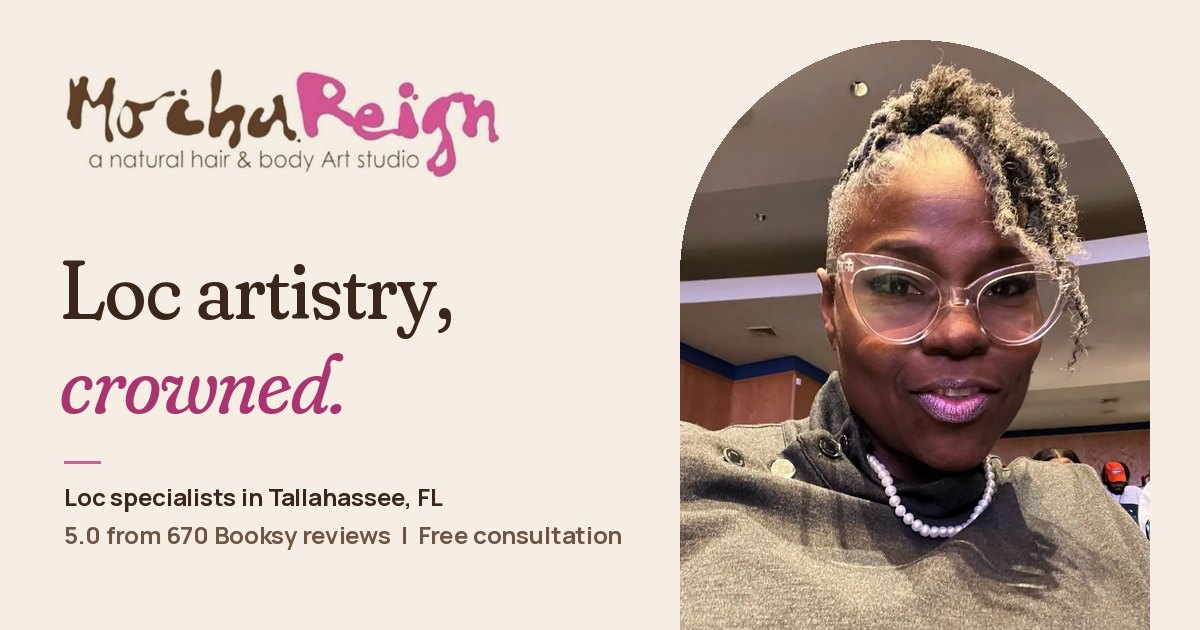
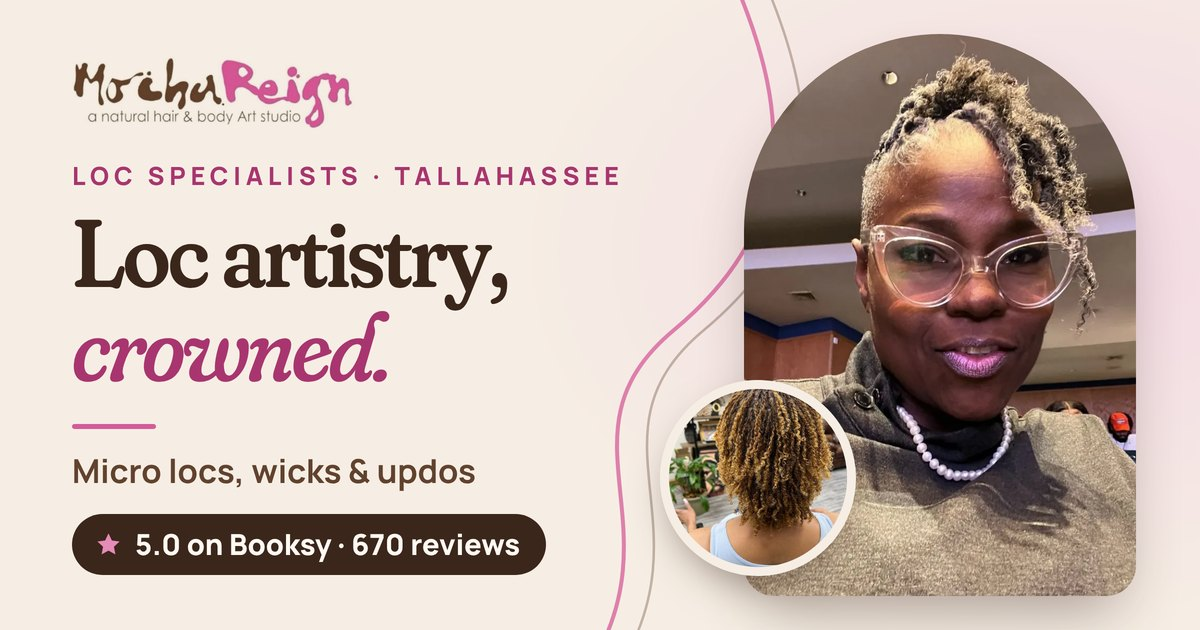
Add per-page Open Graph images and update social meta tags.
Includes dedicated og/ assets and refreshed share image across HTML pages.

diff --git a/index.html b/index.html
@@ -11,18 +11,21 @@
 <meta name="robots" content="index, follow, max-image-preview:large">
 <meta property="og:type" content="website">
 <meta property="og:site_name" content="Mocha Reign Natural Hair Studio &amp; Boutique">
-<meta property="og:title" content="Loc Specialists in Tallahassee, FL | Mocha Reign Studio">
+<meta property="og:title" content="Mocha Reign Natural Hair Studio | Tallahassee Locs">
 <meta property="og:description" content="Micro locs, traditional locs, wicks, loc updos and repair by Tia MochaReign Simmons in Tallahassee. 5.0 from 670 Booksy reviews. Free consultation.">
 <meta property="og:url" content="https://mocha-reign-natural-hair-studio.netlify.app/">
-<meta property="og:image" content="https://mocha-reign-natural-hair-studio.netlify.app/assets/img/share.jpg">
+<meta property="og:image" content="https://mocha-reign-natural-hair-studio.netlify.app/assets/img/og/home.jpg">
+<meta property="og:image:secure_url" content="https://mocha-reign-natural-hair-studio.netlify.app/assets/img/og/home.jpg">
 <meta property="og:image:width" content="1200">
 <meta property="og:image:height" content="630">
-<meta property="og:image:alt" content="Mocha Reign logo and the words Loc artistry, crowned, beside a smiling client with a gray loc updo">
+<meta property="og:image:type" content="image/jpeg">
+<meta property="og:image:alt" content="Mocha Reign link preview: Loc artistry, crowned. Micro locs, wicks &amp; updos. 5.0 on Booksy · 670 reviews. Shown with client photos.">
 <meta property="og:locale" content="en_US">
 <meta name="twitter:card" content="summary_large_image">
-<meta name="twitter:title" content="Loc Specialists in Tallahassee, FL | Mocha Reign Studio">
+<meta name="twitter:title" content="Mocha Reign Natural Hair Studio | Tallahassee Locs">
 <meta name="twitter:description" content="Micro locs, traditional locs, wicks, loc updos and repair by Tia MochaReign Simmons in Tallahassee. 5.0 from 670 Booksy reviews. Free consultation.">
-<meta name="twitter:image" content="https://mocha-reign-natural-hair-studio.netlify.app/assets/img/share.jpg">
+<meta name="twitter:image" content="https://mocha-reign-natural-hair-studio.netlify.app/assets/img/og/home.jpg">
+<meta name="twitter:image:alt" content="Mocha Reign link preview: Loc artistry, crowned. Micro locs, wicks &amp; updos. 5.0 on Booksy · 670 reviews. Shown with client photos.">
 <link rel="icon" href="assets/img/favicon.svg" type="image/svg+xml">
 <link rel="icon" href="assets/img/favicon-32.png" sizes="32x32" type="image/png">
 <link rel="apple-touch-icon" href="assets/img/apple-touch-icon.png">

diff --git a/events.html b/events.html
@@ -14,15 +14,18 @@
 <meta property="og:title" content="Wedding & Event Loc Updos, Tallahassee | Mocha Reign">
 <meta property="og:description" content="Loc updos and occasion styling for weddings, bridal showers and homecoming in Tallahassee. Free consultation first. Send an event inquiry.">
 <meta property="og:url" content="https://mocha-reign-natural-hair-studio.netlify.app/events.html">
-<meta property="og:image" content="https://mocha-reign-natural-hair-studio.netlify.app/assets/img/share.jpg">
+<meta property="og:image" content="https://mocha-reign-natural-hair-studio.netlify.app/assets/img/og/events.jpg">
+<meta property="og:image:secure_url" content="https://mocha-reign-natural-hair-studio.netlify.app/assets/img/og/events.jpg">
 <meta property="og:image:width" content="1200">
 <meta property="og:image:height" content="630">
-<meta property="og:image:alt" content="Mocha Reign logo and the words Loc artistry, crowned, beside a smiling client with a gray loc updo">
+<meta property="og:image:type" content="image/jpeg">
+<meta property="og:image:alt" content="Mocha Reign link preview: Locs for the big day. Weddings, showers &amp; homecoming. Start with a free consultation. Shown with client photos.">
 <meta property="og:locale" content="en_US">
 <meta name="twitter:card" content="summary_large_image">
 <meta name="twitter:title" content="Wedding & Event Loc Updos, Tallahassee | Mocha Reign">
 <meta name="twitter:description" content="Loc updos and occasion styling for weddings, bridal showers and homecoming in Tallahassee. Free consultation first. Send an event inquiry.">
-<meta name="twitter:image" content="https://mocha-reign-natural-hair-studio.netlify.app/assets/img/share.jpg">
+<meta name="twitter:image" content="https://mocha-reign-natural-hair-studio.netlify.app/assets/img/og/events.jpg">
+<meta name="twitter:image:alt" content="Mocha Reign link preview: Locs for the big day. Weddings, showers &amp; homecoming. Start with a free consultation. Shown with client photos.">
 <link rel="icon" href="assets/img/favicon.svg" type="image/svg+xml">
 <link rel="icon" href="assets/img/favicon-32.png" sizes="32x32" type="image/png">
 <link rel="apple-touch-icon" href="assets/img/apple-touch-icon.png">

diff --git a/services.html b/services.html
@@ -14,15 +14,18 @@
 <meta property="og:title" content="Loc Services & Prices in Tallahassee | Mocha Reign">
 <meta property="og:description" content="Full menu and starting prices: micro locs, retwists, wicks, starter locs, loc styles, kids locs and hair paint at Mocha Reign, Tallahassee. Free consult.">
 <meta property="og:url" content="https://mocha-reign-natural-hair-studio.netlify.app/services.html">
-<meta property="og:image" content="https://mocha-reign-natural-hair-studio.netlify.app/assets/img/share.jpg">
+<meta property="og:image" content="https://mocha-reign-natural-hair-studio.netlify.app/assets/img/og/services.jpg">
+<meta property="og:image:secure_url" content="https://mocha-reign-natural-hair-studio.netlify.app/assets/img/og/services.jpg">
 <meta property="og:image:width" content="1200">
 <meta property="og:image:height" content="630">
-<meta property="og:image:alt" content="Mocha Reign logo and the words Loc artistry, crowned, beside a smiling client with a gray loc updo">
+<meta property="og:image:type" content="image/jpeg">
+<meta property="og:image:alt" content="Mocha Reign link preview: The menu. Loc maintenance from $95+. Free 15-minute consultation. Shown with client photos.">
 <meta property="og:locale" content="en_US">
 <meta name="twitter:card" content="summary_large_image">
 <meta name="twitter:title" content="Loc Services & Prices in Tallahassee | Mocha Reign">
 <meta name="twitter:description" content="Full menu and starting prices: micro locs, retwists, wicks, starter locs, loc styles, kids locs and hair paint at Mocha Reign, Tallahassee. Free consult.">
-<meta name="twitter:image" content="https://mocha-reign-natural-hair-studio.netlify.app/assets/img/share.jpg">
+<meta name="twitter:image" content="https://mocha-reign-natural-hair-studio.netlify.app/assets/img/og/services.jpg">
+<meta name="twitter:image:alt" content="Mocha Reign link preview: The menu. Loc maintenance from $95+. Free 15-minute consultation. Shown with client photos.">
 <link rel="icon" href="assets/img/favicon.svg" type="image/svg+xml">
 <link rel="icon" href="assets/img/favicon-32.png" sizes="32x32" type="image/png">
 <link rel="apple-touch-icon" href="assets/img/apple-touch-icon.png">

diff --git a/about.html b/about.html
@@ -14,15 +14,18 @@
 <meta property="og:title" content="About Mocha Reign | Loc Artist Tia Simmons, Tallahassee">
 <meta property="og:description" content="Meet Tia MochaReign Simmons and the Mocha Reign team: a natural hair and body art studio serving Tallahassee since 2010. Loc specialists.">
 <meta property="og:url" content="https://mocha-reign-natural-hair-studio.netlify.app/about.html">
-<meta property="og:image" content="https://mocha-reign-natural-hair-studio.netlify.app/assets/img/share.jpg">
+<meta property="og:image" content="https://mocha-reign-natural-hair-studio.netlify.app/assets/img/og/about.jpg">
+<meta property="og:image:secure_url" content="https://mocha-reign-natural-hair-studio.netlify.app/assets/img/og/about.jpg">
 <meta property="og:image:width" content="1200">
 <meta property="og:image:height" content="630">
-<meta property="og:image:alt" content="Mocha Reign logo and the words Loc artistry, crowned, beside a smiling client with a gray loc updo">
+<meta property="og:image:type" content="image/jpeg">
+<meta property="og:image:alt" content="Mocha Reign link preview: Meet Tia. Tia “MochaReign” Simmons. Natural hair &amp; body Art studio. Shown with a portrait photo.">
 <meta property="og:locale" content="en_US">
 <meta name="twitter:card" content="summary_large_image">
 <meta name="twitter:title" content="About Mocha Reign | Loc Artist Tia Simmons, Tallahassee">
 <meta name="twitter:description" content="Meet Tia MochaReign Simmons and the Mocha Reign team: a natural hair and body art studio serving Tallahassee since 2010. Loc specialists.">
-<meta name="twitter:image" content="https://mocha-reign-natural-hair-studio.netlify.app/assets/img/share.jpg">
+<meta name="twitter:image" content="https://mocha-reign-natural-hair-studio.netlify.app/assets/img/og/about.jpg">
+<meta name="twitter:image:alt" content="Mocha Reign link preview: Meet Tia. Tia “MochaReign” Simmons. Natural hair &amp; body Art studio. Shown with a portrait photo.">
 <link rel="icon" href="assets/img/favicon.svg" type="image/svg+xml">
 <link rel="icon" href="assets/img/favicon-32.png" sizes="32x32" type="image/png">
 <link rel="apple-touch-icon" href="assets/img/apple-touch-icon.png">

diff --git a/book.html b/book.html
@@ -14,15 +14,18 @@
 <meta property="og:title" content="Book a Loc Consultation in Tallahassee | Mocha Reign">
 <meta property="og:description" content="Book a free 15-minute consultation on Booksy. Hours, directions, parking and policies for Mocha Reign, 1533-4 South Monroe St, Tallahassee.">
 <meta property="og:url" content="https://mocha-reign-natural-hair-studio.netlify.app/book.html">
-<meta property="og:image" content="https://mocha-reign-natural-hair-studio.netlify.app/assets/img/share.jpg">
+<meta property="og:image" content="https://mocha-reign-natural-hair-studio.netlify.app/assets/img/og/book.jpg">
+<meta property="og:image:secure_url" content="https://mocha-reign-natural-hair-studio.netlify.app/assets/img/og/book.jpg">
 <meta property="og:image:width" content="1200">
 <meta property="og:image:height" content="630">
-<meta property="og:image:alt" content="Mocha Reign logo and the words Loc artistry, crowned, beside a smiling client with a gray loc updo">
+<meta property="og:image:type" content="image/jpeg">
+<meta property="og:image:alt" content="Mocha Reign link preview: Your chair is waiting. 1533-4 South Monroe St. Free consult · Tue &amp; Wed. Shown with client photos.">
 <meta property="og:locale" content="en_US">
 <meta name="twitter:card" content="summary_large_image">
 <meta name="twitter:title" content="Book a Loc Consultation in Tallahassee | Mocha Reign">
 <meta name="twitter:description" content="Book a free 15-minute consultation on Booksy. Hours, directions, parking and policies for Mocha Reign, 1533-4 South Monroe St, Tallahassee.">
-<meta name="twitter:image" content="https://mocha-reign-natural-hair-studio.netlify.app/assets/img/share.jpg">
+<meta name="twitter:image" content="https://mocha-reign-natural-hair-studio.netlify.app/assets/img/og/book.jpg">
+<meta name="twitter:image:alt" content="Mocha Reign link preview: Your chair is waiting. 1533-4 South Monroe St. Free consult · Tue &amp; Wed. Shown with client photos.">
 <link rel="icon" href="assets/img/favicon.svg" type="image/svg+xml">
 <link rel="icon" href="assets/img/favicon-32.png" sizes="32x32" type="image/png">
 <link rel="apple-touch-icon" href="assets/img/apple-touch-icon.png">

diff --git a/gallery.html b/gallery.html
@@ -14,15 +14,18 @@
 <meta property="og:title" content="Loc Styles Gallery, Tallahassee | Mocha Reign Studio">
 <meta property="og:description" content="Photos of loc updos, micro locs, retwists, loc hawks and color from Mocha Reign Natural Hair Studio in Tallahassee, FL. Filter by style.">
 <meta property="og:url" content="https://mocha-reign-natural-hair-studio.netlify.app/gallery.html">
-<meta property="og:image" content="https://mocha-reign-natural-hair-studio.netlify.app/assets/img/share.jpg">
+<meta property="og:image" content="https://mocha-reign-natural-hair-studio.netlify.app/assets/img/og/gallery.jpg">
+<meta property="og:image:secure_url" content="https://mocha-reign-natural-hair-studio.netlify.app/assets/img/og/gallery.jpg">
 <meta property="og:image:width" content="1200">
 <meta property="og:image:height" content="630">
-<meta property="og:image:alt" content="Mocha Reign logo and the words Loc artistry, crowned, beside a smiling client with a gray loc updo">
+<meta property="og:image:type" content="image/jpeg">
+<meta property="og:image:alt" content="Mocha Reign link preview: The portfolio. Updos, micro locs &amp; more. Tallahassee, FL. Shown with four client photos.">
 <meta property="og:locale" content="en_US">
 <meta name="twitter:card" content="summary_large_image">
 <meta name="twitter:title" content="Loc Styles Gallery, Tallahassee | Mocha Reign Studio">
 <meta name="twitter:description" content="Photos of loc updos, micro locs, retwists, loc hawks and color from Mocha Reign Natural Hair Studio in Tallahassee, FL. Filter by style.">
-<meta name="twitter:image" content="https://mocha-reign-natural-hair-studio.netlify.app/assets/img/share.jpg">
+<meta name="twitter:image" content="https://mocha-reign-natural-hair-studio.netlify.app/assets/img/og/gallery.jpg">
+<meta name="twitter:image:alt" content="Mocha Reign link preview: The portfolio. Updos, micro locs &amp; more. Tallahassee, FL. Shown with four client photos.">
 <link rel="icon" href="assets/img/favicon.svg" type="image/svg+xml">
 <link rel="icon" href="assets/img/favicon-32.png" sizes="32x32" type="image/png">
 <link rel="apple-touch-icon" href="assets/img/apple-touch-icon.png">

diff --git a/404.html b/404.html
@@ -13,15 +13,18 @@
 <meta property="og:title" content="Page Not Found | Mocha Reign Natural Hair Studio">
 <meta property="og:description" content="This page could not be found. Visit Mocha Reign Natural Hair Studio, loc specialists in Tallahassee, FL.">
 <meta property="og:url" content="https://mocha-reign-natural-hair-studio.netlify.app/404.html">
-<meta property="og:image" content="https://mocha-reign-natural-hair-studio.netlify.app/assets/img/share.jpg">
+<meta property="og:image" content="https://mocha-reign-natural-hair-studio.netlify.app/assets/img/og/home.jpg">
+<meta property="og:image:secure_url" content="https://mocha-reign-natural-hair-studio.netlify.app/assets/img/og/home.jpg">
 <meta property="og:image:width" content="1200">
 <meta property="og:image:height" content="630">
-<meta property="og:image:alt" content="Mocha Reign logo and the words Loc artistry, crowned, beside a smiling client with a gray loc updo">
+<meta property="og:image:type" content="image/jpeg">
+<meta property="og:image:alt" content="Mocha Reign link preview: Loc artistry, crowned. Micro locs, wicks &amp; updos. 5.0 on Booksy · 670 reviews. Shown with client photos.">
 <meta property="og:locale" content="en_US">
 <meta name="twitter:card" content="summary_large_image">
 <meta name="twitter:title" content="Page Not Found | Mocha Reign Natural Hair Studio">
 <meta name="twitter:description" content="This page could not be found. Visit Mocha Reign Natural Hair Studio, loc specialists in Tallahassee, FL.">
-<meta name="twitter:image" content="https://mocha-reign-natural-hair-studio.netlify.app/assets/img/share.jpg">
+<meta name="twitter:image" content="https://mocha-reign-natural-hair-studio.netlify.app/assets/img/og/home.jpg">
+<meta name="twitter:image:alt" content="Mocha Reign link preview: Loc artistry, crowned. Micro locs, wicks &amp; updos. 5.0 on Booksy · 670 reviews. Shown with client photos.">
 <link rel="icon" href="/assets/img/favicon.svg" type="image/svg+xml">
 <link rel="icon" href="/assets/img/favicon-32.png" sizes="32x32" type="image/png">
 <link rel="apple-touch-icon" href="/assets/img/apple-touch-icon.png">
